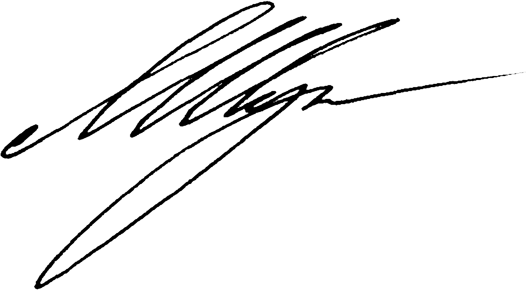
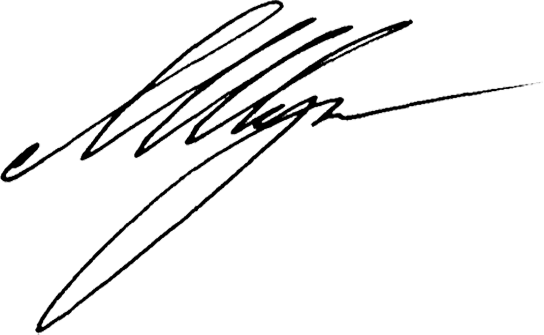
отредачил подписи

diff --git a/document_templates/russian_international_driving_permit/short/side_1.html b/document_templates/russian_international_driving_permit/short/side_1.html
@@ -13,7 +13,7 @@
     <div id="issued-at">G. SIMFEROPOL, RUSSIA</div>
     <div id="date">12.10.2018</div>
     <div id="national-licence-serial-number">ASD123123</div>
-    <img id="official-signature" src="../../../document_templates/russian_international_driving_permit/short/assets/images/signatures/official/signature_1.png"/>
+    <img id="official-signature" src="../../../document_templates/russian_international_driving_permit/short/assets/images/signatures/official/signature_3.png"/>
 
     <div id="first-name">MEZKO</div>
     <div id="last-name">ANNA</div>
@@ -31,7 +31,7 @@
     <img id="photo" src="../../../document_templates/russian_international_driving_permit/short/assets/images/photo.jpg"/>
     <div id="serial-number">00  AB  123456</div>
     <img id="stamp" src="../../../document_templates/russian_international_driving_permit/short/assets/images/stamp/stamp.png"/>
-    <img id="client-signature" src="../../../document_templates/russian_international_driving_permit/short/assets/images/signatures/clients/signature_1.png"/>
+    <img id="client-signature" src="../../../document_templates/russian_international_driving_permit/short/assets/images/signatures/clients/signature_5.png"/>
     <div id="example_1">Образец</div>
     <div id="example_2">Образец</div>
   </div>

diff --git a/document_templates/russian_international_driving_permit/full/side_2.html b/document_templates/russian_international_driving_permit/full/side_2.html
@@ -16,7 +16,7 @@
         <div id="living-place">G. SIMFEROPOL, RUSSIA</div>
         <div id="serial-number">00  AB  123456</div>
         <img id="stamp" src="../../../document_templates/russian_international_driving_permit/full/assets/images/stamp/stamp.png"/>
-        <img id="client-signature" src="../../../document_templates/russian_international_driving_permit/full/assets/images/signatures/clients/signature_1.png"/>
+        <img id="client-signature" src="../../../document_templates/russian_international_driving_permit/full/assets/images/signatures/clients/signature_3.png"/>
     </div>
 
 </body>

diff --git a/document_templates/russian_international_driving_permit/full/side_1.html b/document_templates/russian_international_driving_permit/full/side_1.html
@@ -15,7 +15,7 @@
     <div id="issued-at"></div>
     <div id="date"></div>
     <div id="national-licence-serial-number"></div>
-    <img id="official-signature" src="../../../document_templates/russian_international_driving_permit/full/assets/images/signatures/official/signature_1.png"/>
+    <img id="official-signature" src="../../../document_templates/russian_international_driving_permit/full/assets/images/signatures/official/signature_4.png"/>
   </div>
 </body>
 </html>

diff --git a/document_templates/russian_international_driving_permit/short/style.css b/document_templates/russian_international_driving_permit/short/style.css
@@ -125,7 +125,7 @@ body {
 #official-signature {
     position: absolute;
     z-index: 10;
-    top: 2320px;
+    top: 2450px;
     left: 1220px;
 }
 
@@ -199,7 +199,7 @@ body {
 }
 
 #client-signature {
-    top: 1730px;
+    top: 1810px;
     left:3200px;
     z-index: 10;
     position: absolute;

diff --git a/index.js b/index.js
@@ -12,7 +12,7 @@ import * as path from "path";
 dotenv.config();
 
 
-const bot = new Telegraf(process.env.BOT_TOKEN);
+const bot = new Telegraf(process.env.DEV_BOT_TOKEN);
 const stage = new Scenes.Stage([makeLicenseScene]);
 
 bot.use(session());

diff --git a/document_templates/international_driver_license/style.css b/document_templates/international_driver_license/style.css
@@ -144,7 +144,7 @@ body {
     top: 560px;
     left: 450px;
     max-height: 65px;
-    max-width: 100px;
+    max-width: 240px;
 }
 #issued {
     font-family: Arial, sans-serif;
